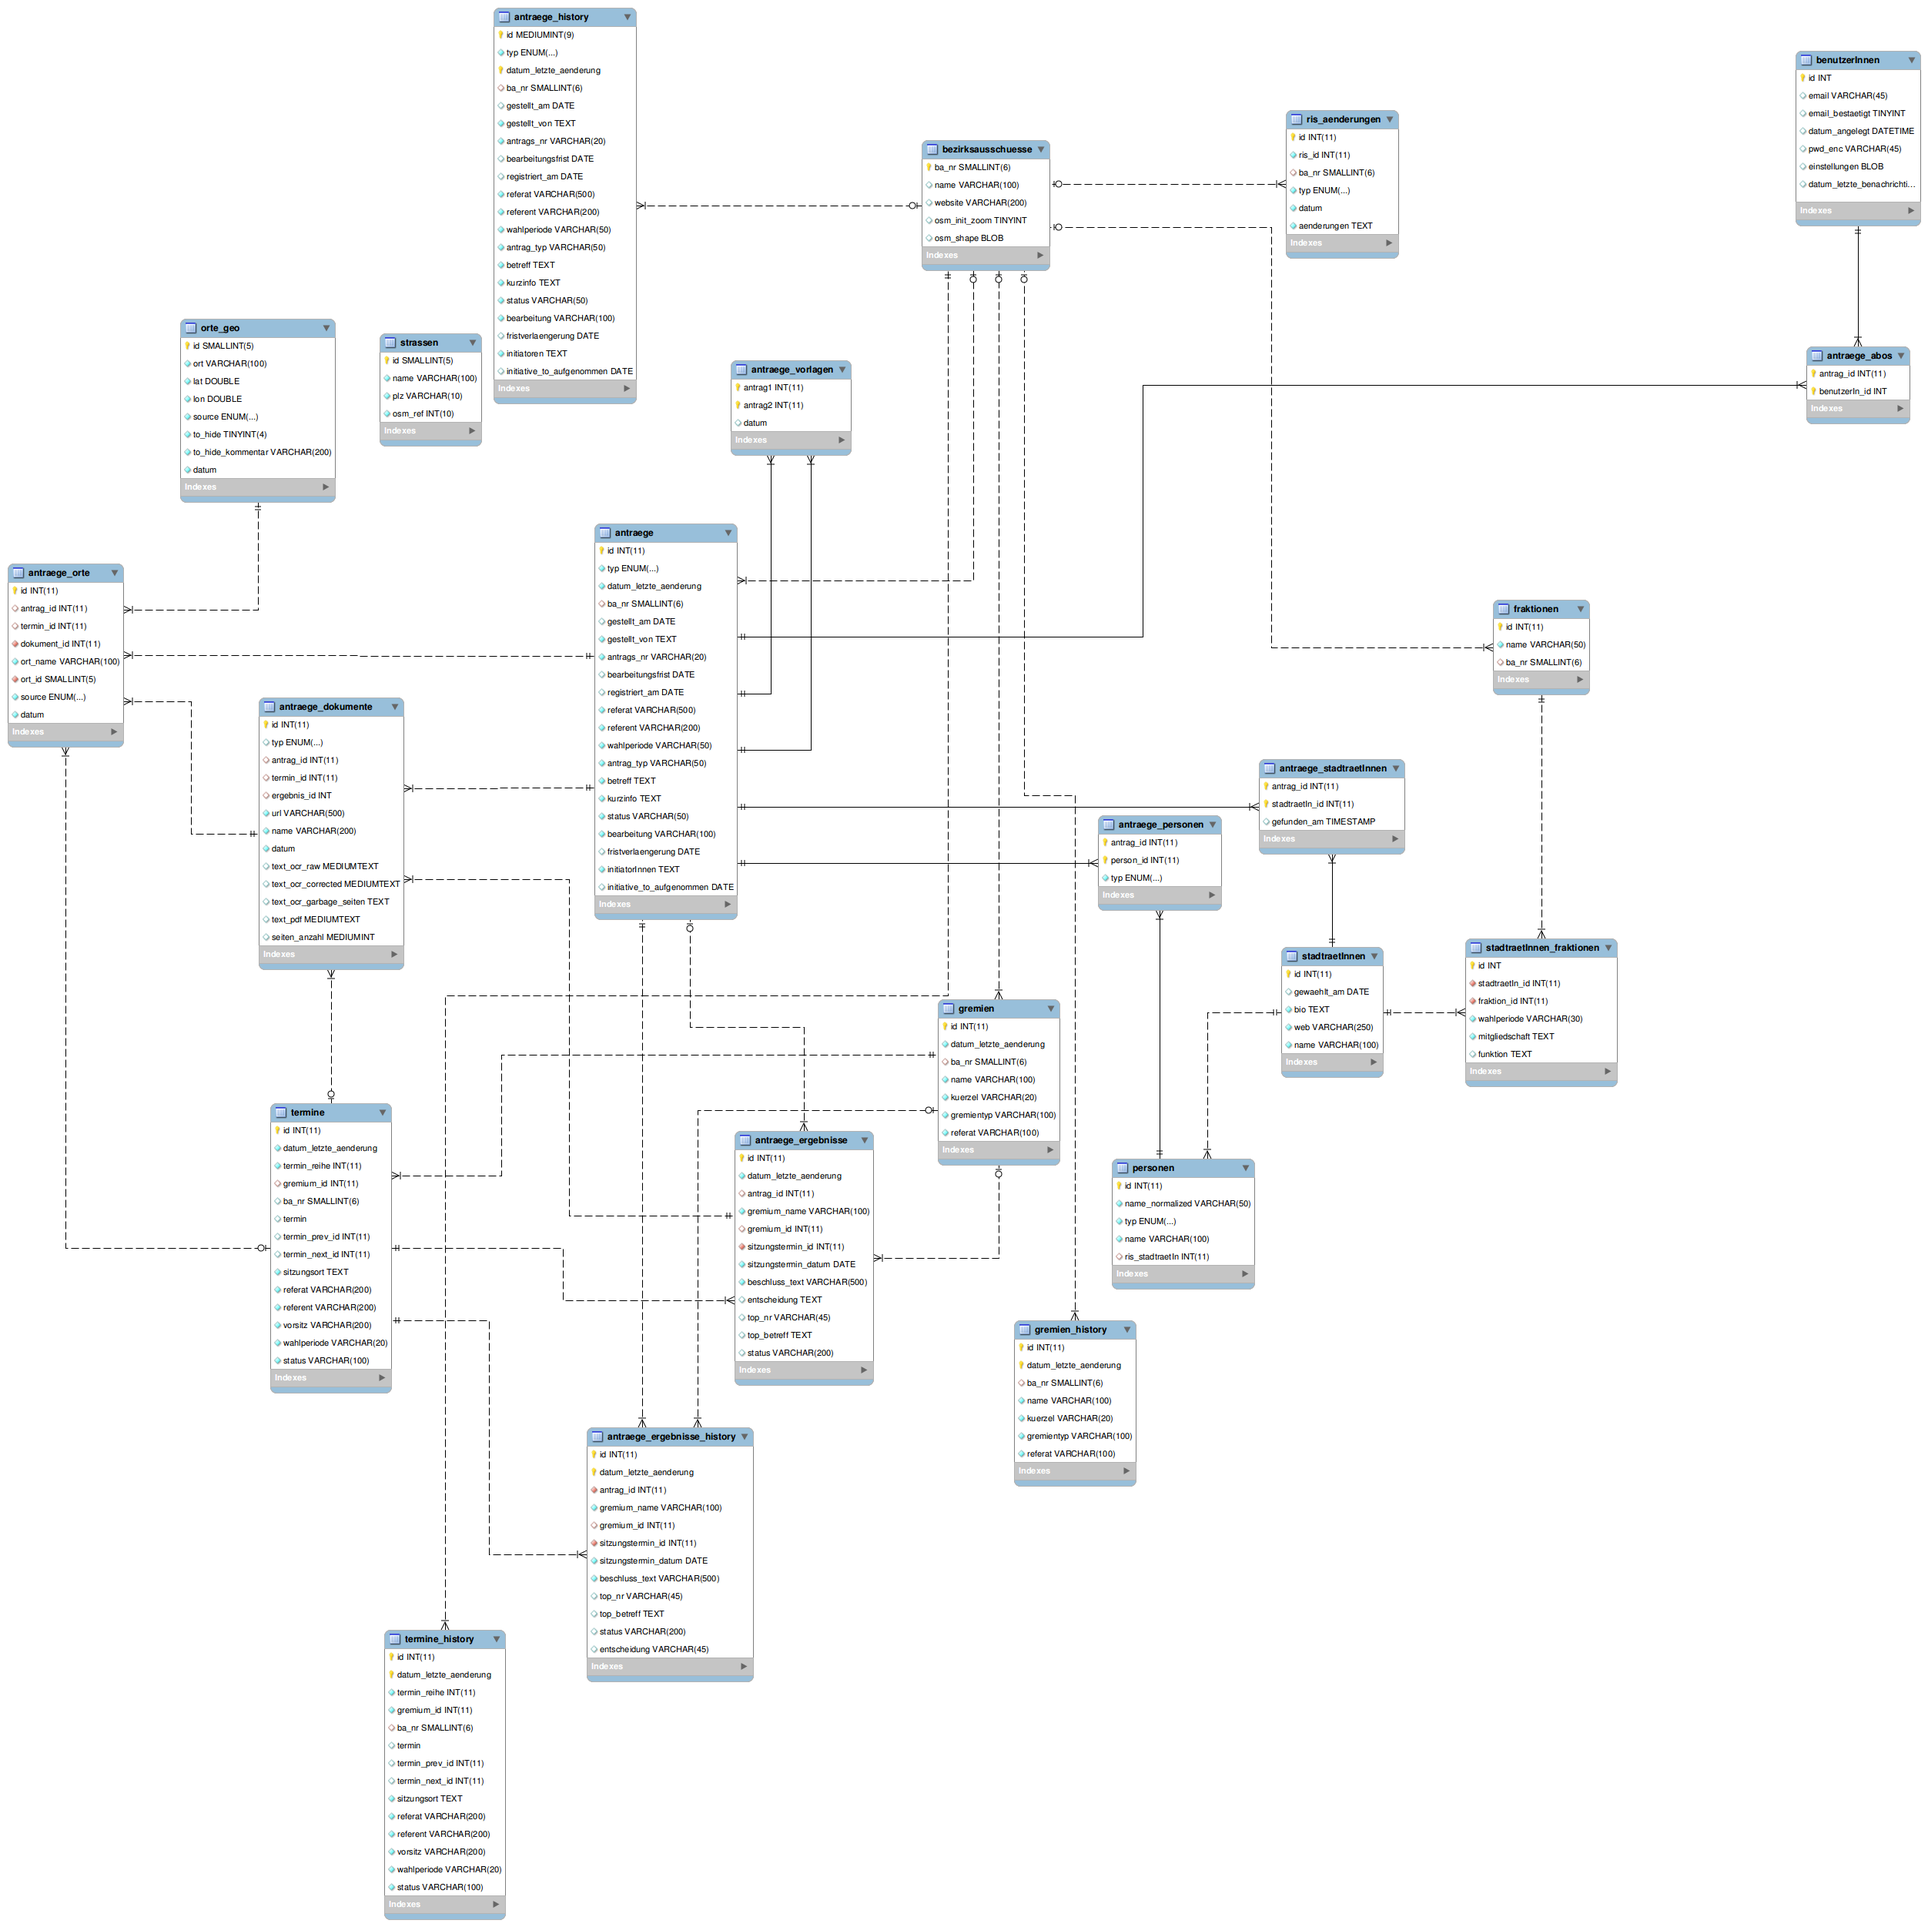
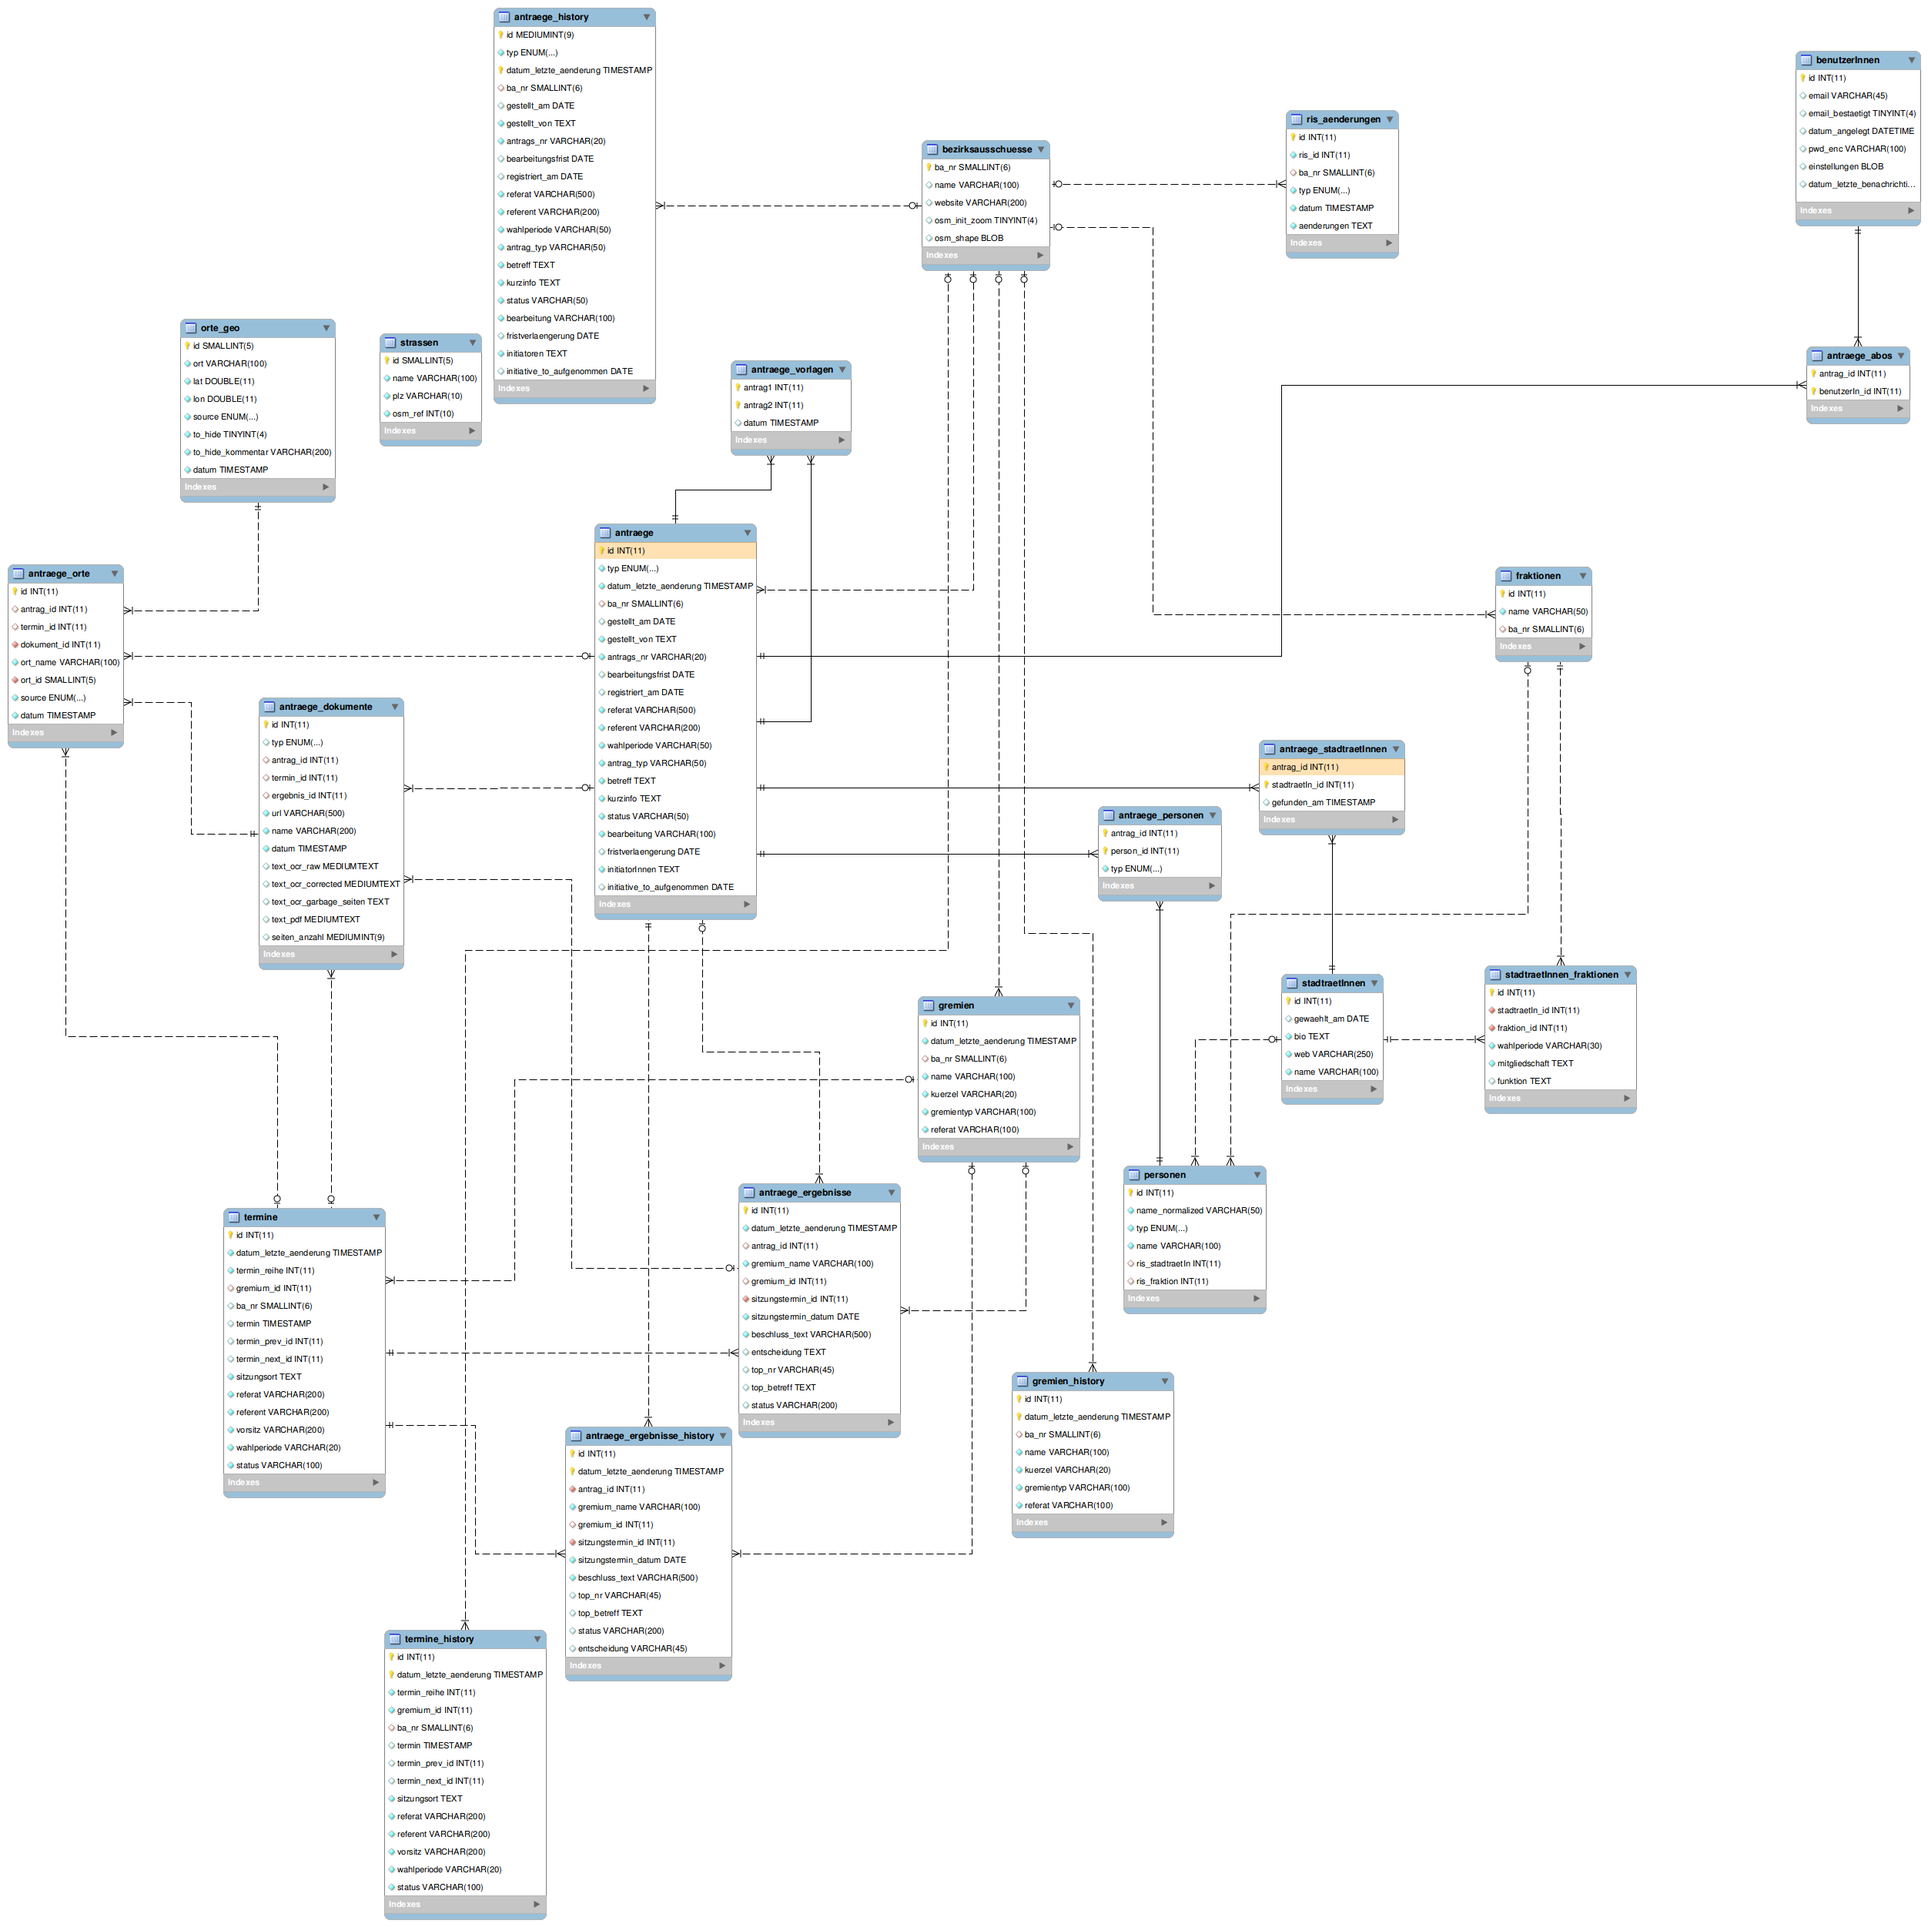
Weiter

diff --git a/protected/components/RISParser/StadtraetInnenParser.php b/protected/components/RISParser/StadtraetInnenParser.php
@@ -86,7 +86,15 @@ class StadtraetInnenParser extends RISParser {
 
 		preg_match_all("/ris_fraktionen_detail\.jsp\?risid=(?<fraktion_id>[0-9]+)&amp;periodeid=(?<wahlperiode>[0-9]+)[\"'& ].*tdborder\">(?<mitgliedschaft>[^<]*)<\/td>.*Funktion[^>]*>(?<funktion>[^<]*) *<.*<\/tr/siU", $unten, $matches);
 		for ($i = 0; $i < count($matches[1]); $i++) {
+
 			$str_fraktion = new StadtraetInFraktion();
+			if (preg_match("/^von (?<von_tag>[0-9]+)\\.(?<von_monat>[0-9]+)\\.(?<von_jahr>[0-9]+) bis (?<bis_tag>[0-9]+)\\.(?<bis_monat>[0-9]+)\\.(?<bis_jahr>[0-9]+)$/", $matches[3][$i], $mitgliedschaft_matches)) {
+				$str_fraktion->datum_von = $mitgliedschaft_matches["von_jahr"] . "-" . $mitgliedschaft_matches["von_monat"] . "-" . $mitgliedschaft_matches["von_tag"];
+				$str_fraktion->datum_bis = $mitgliedschaft_matches["bis_jahr"] . "-" . $mitgliedschaft_matches["bis_monat"] . "-" . $mitgliedschaft_matches["bis_tag"];
+			} elseif (preg_match("/^seit (?<von_tag>[0-9]+)\\.(?<von_monat>[0-9]+)\\.(?<von_jahr>[0-9]+)$/", $matches[3][$i], $mitgliedschaft_matches)) {
+				$str_fraktion->datum_von = $mitgliedschaft_matches["von_jahr"] . "-" . $mitgliedschaft_matches["von_monat"] . "-" . $mitgliedschaft_matches["von_tag"];
+				$str_fraktion->datum_bis = null;
+			}
 			$str_fraktion->fraktion_id = $matches["fraktion_id"][$i];
 			$str_fraktion->stadtraetIn_id = $stadtraetIn_id;
 			$str_fraktion->wahlperiode = $matches["wahlperiode"][$i];
@@ -98,7 +106,7 @@ class StadtraetInnenParser extends RISParser {
 			/** @var null|StadtraetInFraktion $bisherige  */
 			$bisherige = null;
 			foreach ($bisherige_fraktionen as $fr)  {
-				if ($fr->fraktion_id == $matches["fraktion_id"][$i] && $fr->wahlperiode == $matches["wahlperiode"][$i]) $bisherige = $fr;
+				if ($fr->fraktion_id == $str_fraktion->fraktion_id && $fr->datum_von == $str_fraktion->datum_von && $fr->datum_bis == $str_fraktion->datum_bis && $fr->funktion == $str_fraktion->funktion) $bisherige = $fr;
 			}
 			if ($bisherige === null) {
 				$str_fraktion->save();
@@ -107,6 +115,8 @@ class StadtraetInnenParser extends RISParser {
 				if ($bisherige->wahlperiode != $matches["wahlperiode"][$i]) $aenderungen .= "Neue Wahlperiode: " . $bisherige->wahlperiode . " => " . $matches["wahlperiode"][$i] . "\n";
 				if ($bisherige->funktion != $matches["funktion"][$i]) $aenderungen .= "Neue Funktion in der Fraktion: " . $bisherige->funktion . " => " . $matches["funktion"][$i] . "\n";
 				if ($bisherige->mitgliedschaft != $matches["mitgliedschaft"][$i]) $aenderungen .= "Mitgliedschaft in der Fraktion: " . $bisherige->mitgliedschaft . " => " . $matches["mitgliedschaft"][$i] . "\n";
+				if ($bisherige->datum_von != $str_fraktion->datum_von) $aenderungen .= "Fraktionsmitgliedschaft Start: " . $bisherige->datum_von . " => " . $str_fraktion->datum_von . "\n";
+				if ($bisherige->datum_bis != $str_fraktion->datum_bis) $aenderungen .= "Fraktionsmitgliedschaft Ende: " . $bisherige->datum_bis . " => " . $str_fraktion->datum_bis . "\n";
 				$bisherige->setAttributes($str_fraktion->getAttributes());
 				$bisherige->save();
 			}

diff --git a/protected/models/Person.php b/protected/models/Person.php
@@ -9,10 +9,12 @@
  * @property string $typ
  * @property string $name
  * @property integer $ris_stadtraetIn
+ * @property integer $ris_fraktion
  *
  * The followings are the available model relations:
  * @property AntragPerson[] $antraegePersonen
  * @property StadtraetIn $stadtraetIn
+ * @property Fraktion $fraktion
  */
 class Person extends CActiveRecord
 {
@@ -53,13 +55,13 @@ class Person extends CActiveRecord
 		// will receive user inputs.
 		return array(
 			array('name_normalized, typ, name', 'required'),
-			array('ris_stadtraetIn', 'numerical', 'integerOnly'=>true),
+			array('ris_stadtraetIn, ris_fraktion', 'numerical', 'integerOnly'=>true),
 			array('name_normalized', 'length', 'max'=>50),
 			array('typ', 'length', 'max'=>9),
 			array('name', 'length', 'max'=>100),
 			// The following rule is used by search().
 			// Please remove those attributes that should not be searched.
-			array('id, name_normalized, typ, name, ris_stadtraetIn', 'safe', 'on'=>'search'),
+			array('id, name_normalized, typ, name, ris_stadtraetIn, ris_fraktion', 'safe', 'on'=>'search'),
 		);
 	}
 
@@ -73,6 +75,7 @@ class Person extends CActiveRecord
 		return array(
 			'antraegePersonen' => array(self::HAS_MANY, 'AntragPerson', 'person_id'),
 			'stadtraetIn' => array(self::BELONGS_TO, 'StadtraetIn', 'ris_stadtraetIn'),
+			'fraktion' => array(self::BELONGS_TO, 'Fraktion', 'ris_fraktion'),
 		);
 	}
 
@@ -86,7 +89,8 @@ class Person extends CActiveRecord
 			'name_normalized' => 'Name Normalized',
 			'typ' => 'Typ',
 			'name' => 'Name',
-			'stadtraetIn' => 'StadträtInnen-ID',
+			'ris_stadtraetIn' => 'StadträtInnen-ID',
+			'ris_fraktion' => 'Fraktion',
 		);
 	}
 
@@ -106,6 +110,7 @@ class Person extends CActiveRecord
 		$criteria->compare('typ',$this->typ,true);
 		$criteria->compare('name',$this->name,true);
 		$criteria->compare('ris_stadtraetIn',$this->ris_stadtraetIn);
+		$criteria->compare('ris_fraktion',$this->ris_fraktion);
 
 		return new CActiveDataProvider($this, array(
 			'criteria'=>$criteria,
@@ -138,6 +143,7 @@ class Person extends CActiveRecord
 	 * @return string|null
 	 */
 	public function ratePartei() {
+		if (isset($this->fraktion) && $this->fraktion) return $this->fraktion->name;
 		if (!isset($this->stadtraetIn) || is_null($this->stadtraetIn)) return null;
 		if (!isset($this->stadtraetIn->stadtraetInnenFraktionen[0]->fraktion)) return null;
 		return $this->stadtraetIn->stadtraetInnenFraktionen[0]->fraktion->name;

diff --git a/protected/models/StadtraetInFraktion.php b/protected/models/StadtraetInFraktion.php
@@ -3,6 +3,8 @@
 /**
  * @property integer $stadtraetIn_id
  * @property integer $fraktion_id
+ * @property string $datum_von
+ * @property string $datum_bis
  * @property string $wahlperiode
  * @property string $mitgliedschaft
  * @property string $funktion
@@ -39,13 +41,14 @@ class StadtraetInFraktion extends CActiveRecord
 		// NOTE: you should only define rules for those attributes that
 		// will receive user inputs.
 		return array(
-			array('stadtraetIn_id, fraktion_id, wahlperiode, mitgliedschaft', 'required'),
+			array('stadtraetIn_id, fraktion_id, wahlperiode, mitgliedschaft, datum_von', 'required'),
 			array('stadtraetIn_id, fraktion_id', 'numerical', 'integerOnly' => true),
 			array('wahlperiode', 'length', 'max' => 30),
+			array('datum_von, datum_bis', 'length', 'max' => 10),
 			array('funktion', 'safe'),
 			// The following rule is used by search().
 			// Please remove those attributes that should not be searched.
-			array('stadtraetIn_id, fraktion_id, wahlperiode, mitgliedschaft, funktion', 'safe', 'on' => 'search'),
+			array('stadtraetIn_id, fraktion_id, wahlperiode, mitgliedschaft, funktion, datum_von, datum_bis', 'safe', 'on' => 'search'),
 		);
 	}
 
@@ -73,6 +76,8 @@ class StadtraetInFraktion extends CActiveRecord
 			'wahlperiode'    => 'Wahlperiode',
 			'mitgliedschaft' => 'Mitgliedschaft',
 			'funktion'       => 'Funktion',
+			'datum_von'      => 'Von',
+			'datum_bis'      => 'Bis',
 		);
 	}
 
@@ -89,6 +94,8 @@ class StadtraetInFraktion extends CActiveRecord
 
 		$criteria->compare('stadtraetIn_id', $this->stadtraetIn_id);
 		$criteria->compare('fraktion_id', $this->fraktion_id);
+		$criteria->compare('datum_bis', $this->datum_bis);
+		$criteria->compare('datum_von', $this->datum_von);
 		$criteria->compare('wahlperiode', $this->wahlperiode, true);
 		$criteria->compare('mitgliedschaft', $this->mitgliedschaft, true);
 		$criteria->compare('funktion', $this->funktion, true);

diff --git a/protected/models/Fraktion.php b/protected/models/Fraktion.php
@@ -9,6 +9,7 @@
  *
  * The followings are the available model relations:
  * @property StadtraetInFraktion[] $stadtraeteFraktionen
+ * @property Person[] $personen
  */
 class Fraktion extends CActiveRecord
 {
@@ -56,6 +57,7 @@ class Fraktion extends CActiveRecord
 		// class name for the relations automatically generated below.
 		return array(
 			'stadtraetInnenFraktionen' => array(self::HAS_MANY, 'StadtraetInFraktion', 'fraktion_id'),
+			'personen' => array(self::HAS_MANY, 'Person', 'ris_fraktion'),
 		);
 	}
 

diff --git a/protected/commands/Reindex_DocumentsCommand.php b/protected/commands/Reindex_DocumentsCommand.php
@@ -4,7 +4,7 @@ class Reindex_DocumentsCommand extends CConsoleCommand {
 	public function run($args) {
 
 		$sql = Yii::app()->db->createCommand();
-		$sql->select("id")->from("antraege_dokumente")->where("id >= 1754581")->order("id");
+		$sql->select("id")->from("antraege_dokumente")->where("id >= 1900371")->order("id");
 		$data = $sql->queryColumn(array("id"));
 
 		$anz = count($data);

diff --git a/protected/controllers/IndexController.php b/protected/controllers/IndexController.php
@@ -25,7 +25,7 @@ class IndexController extends RISBaseController
 
 			$ergebnisse = $solr->select($select);
 
-			$data = RISSolrHelper::ergebnisse2Feed($ergebnisse);
+			$data = RISSolrHelper::ergebnisse2FeedData($ergebnisse);
 		} else {
 			$data = array();
 			/** @var array|RISAenderung[] $aenderungen */

diff --git a/protected/commands/Reindex_StadtraetInnenCommand.php b/protected/commands/Reindex_StadtraetInnenCommand.php
@@ -1,0 +1,10 @@
+<?php
+
+class Reindex_StadtraetInnenCommand extends CConsoleCommand {
+	public function run($args) {
+
+		$parser = new StadtraetInnenParser();
+		$parser->parseUpdate();
+
+	}
+}
